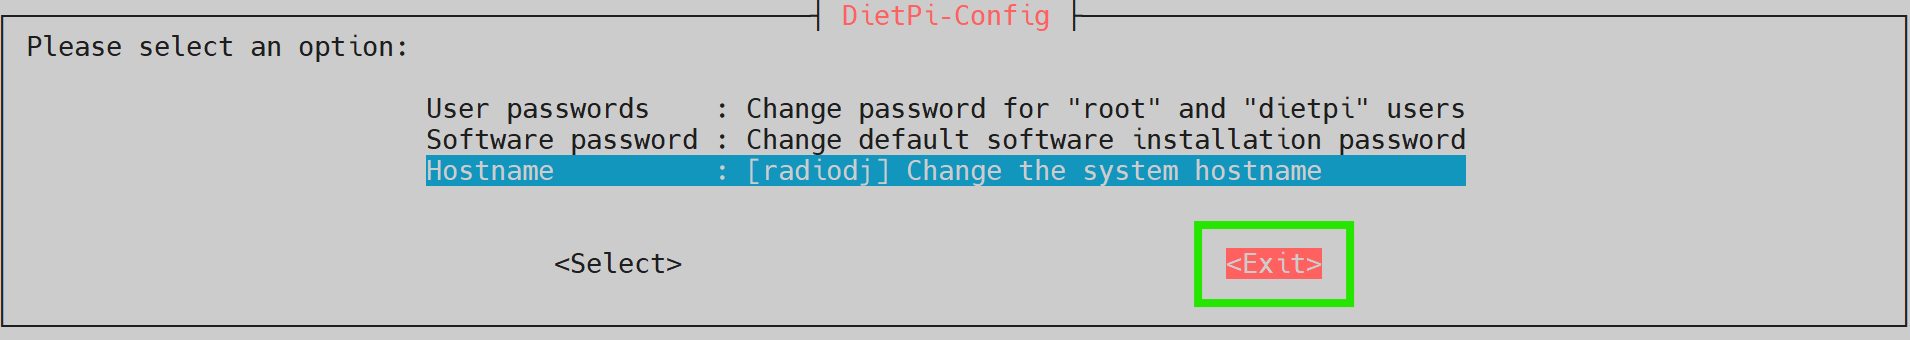
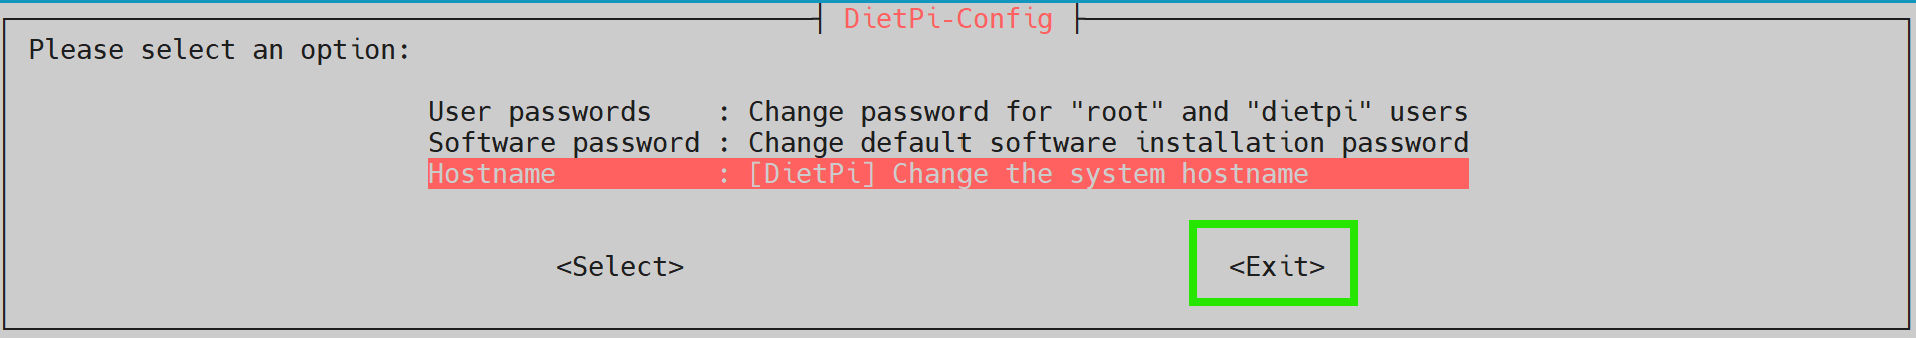
update

diff --git a/web_launcher/handmic.html b/web_launcher/handmic.html
@@ -87,7 +87,7 @@ function changeColor(elementId, newColor) {
 <div style="clear:both"></div></div></div></div>
 <div style="clear:both"></div></div></div>  </div>
 <div class="textstyle2">
-<div id="container_3634b17a"><div id="container_3634b17a_padding" ><div class="textstyle2"><iframe name="Rig View" frameBorder="0" src="http://zagar:8010/stream" scrolling="auto" id="iframe_78d6203e"></iframe></div>
+<div id="container_3634b17a"><div id="container_3634b17a_padding" ><div class="textstyle2"><iframe name="Rig View" frameBorder="0" src="http://HHOOSSTTPPLLAACCEEHHOOLLDDEEERR:8010/stream" scrolling="auto" id="iframe_78d6203e"></iframe></div>
 <div style="clear:both"></div></div></div>  </div>
 <div class="textstyle1">
 <span class="textstyle3">N</span><div id="container_35965677"><div id="container_35965677_padding" ><div class="textstyle2"><div id="container_5ce8949f"><div id="container_5ce8949f_padding" ><div class="textstyle2">  <div id="ptt_button" onmousedown="sendMessage('-a t -d FM')" onmouseup="sendMessage('-a t -d FM')">
